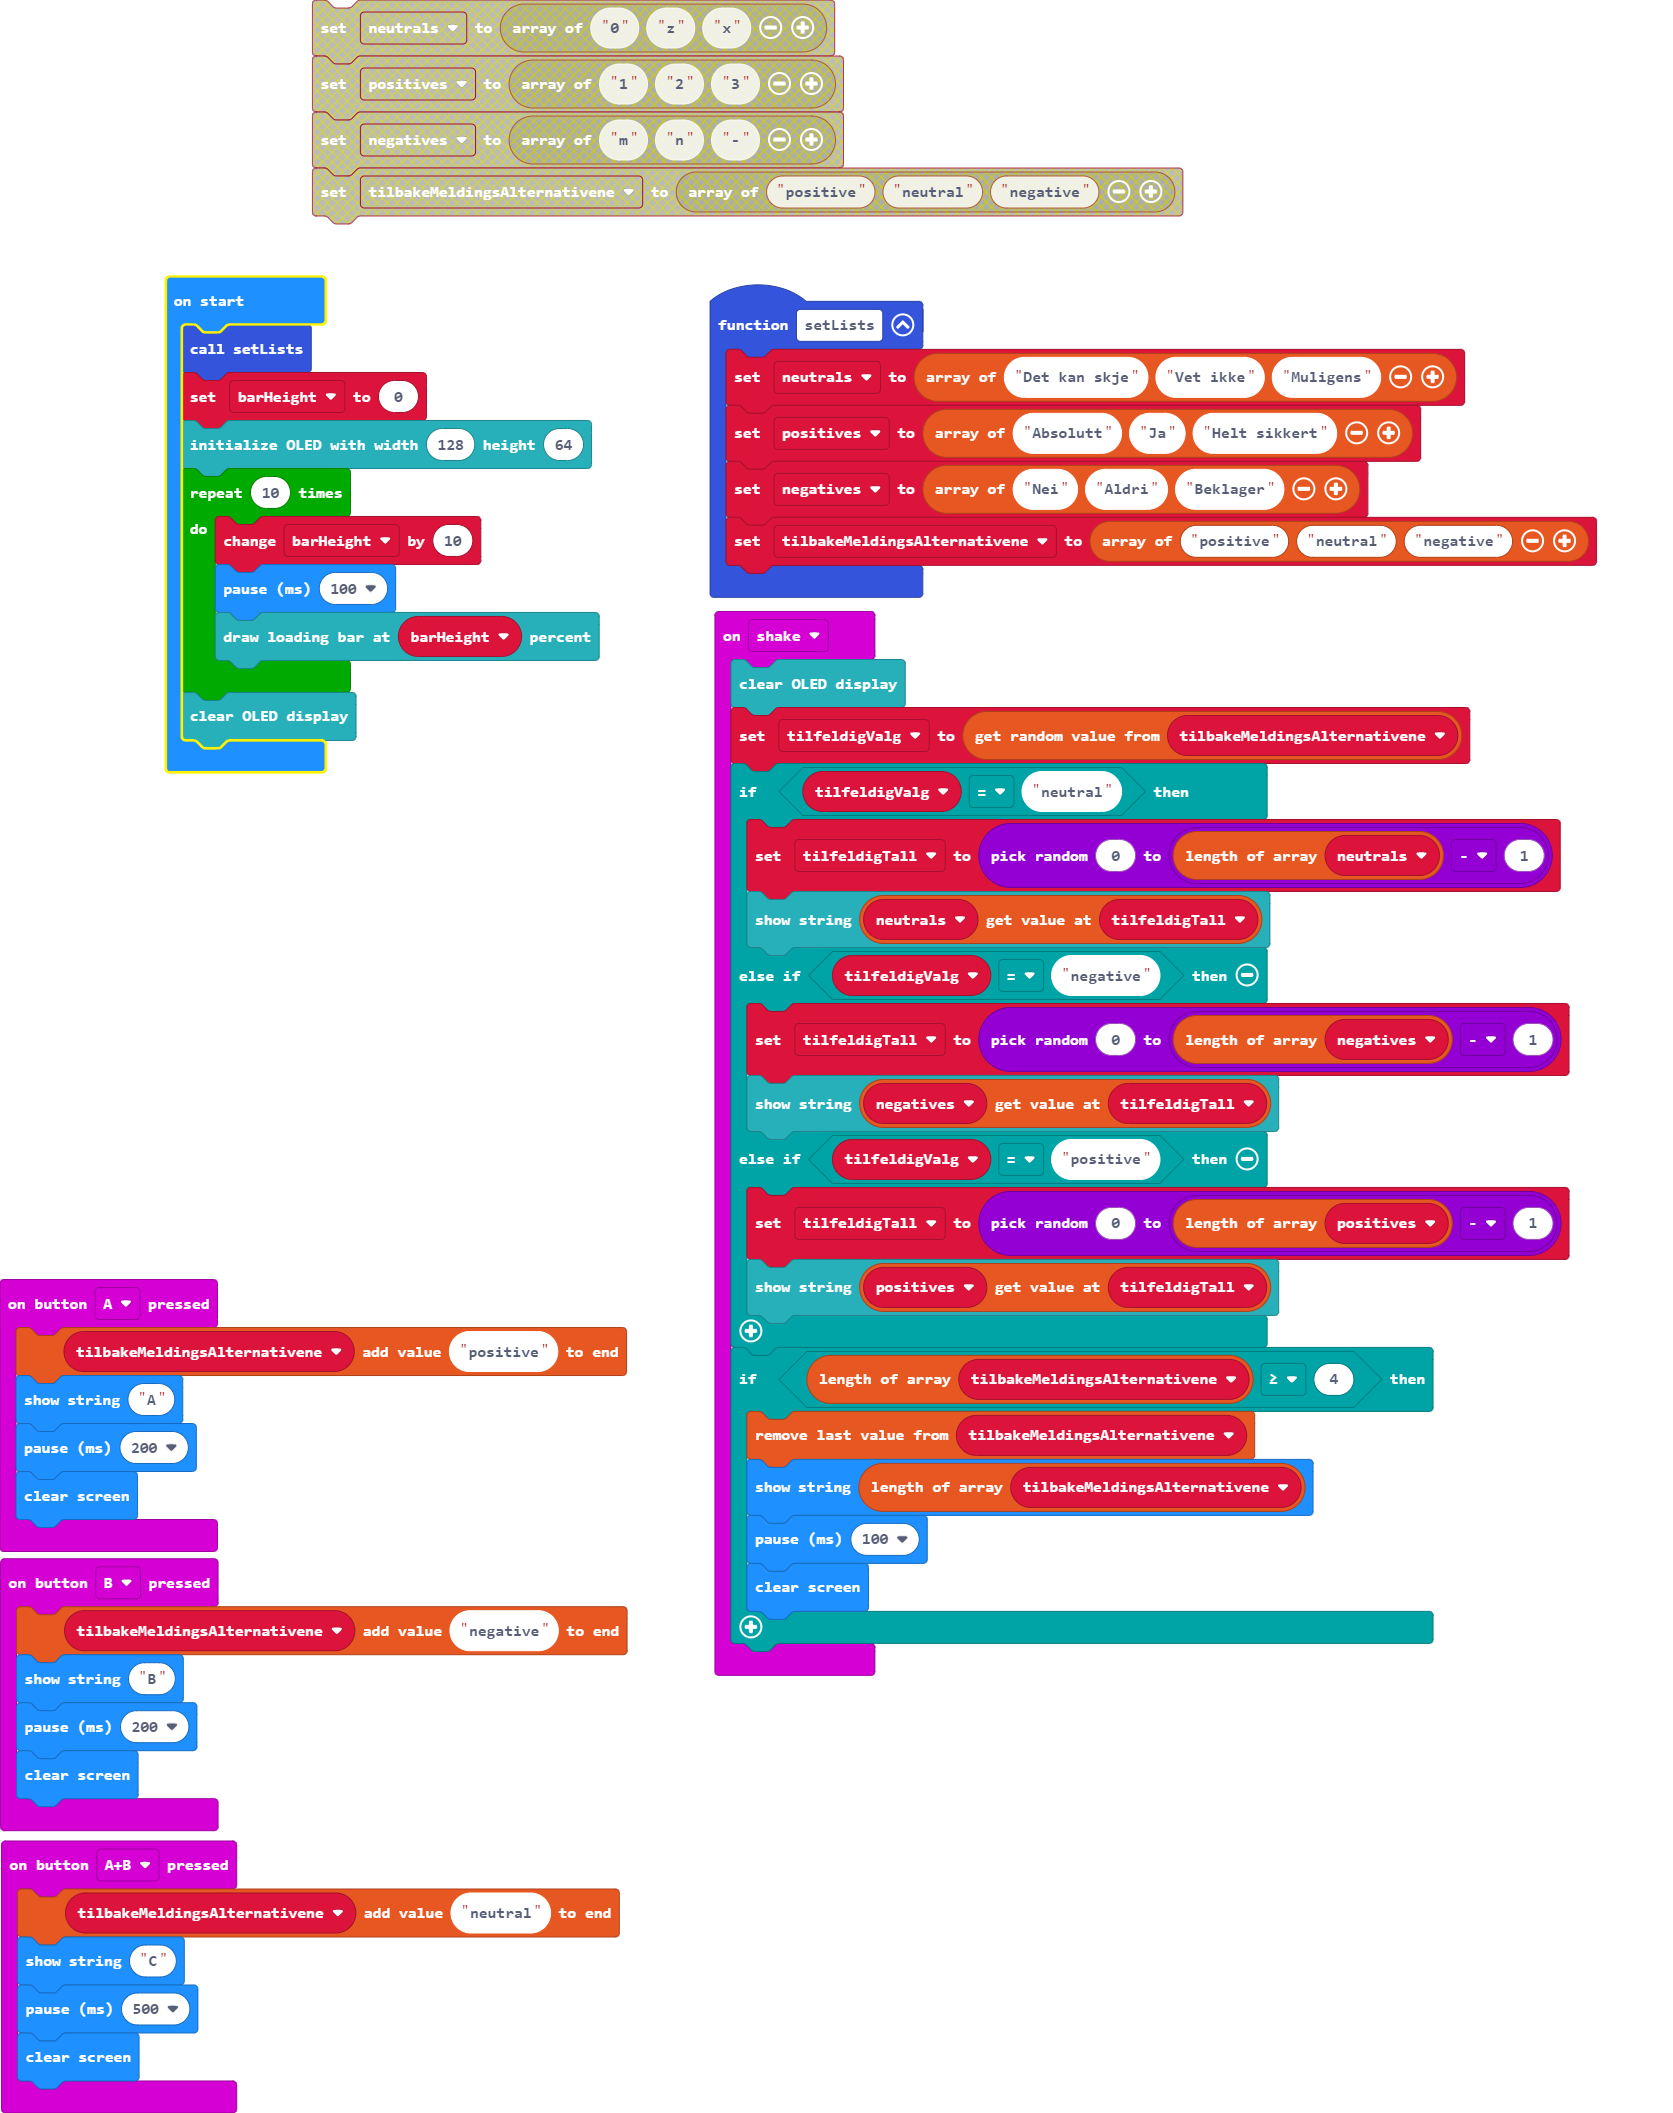
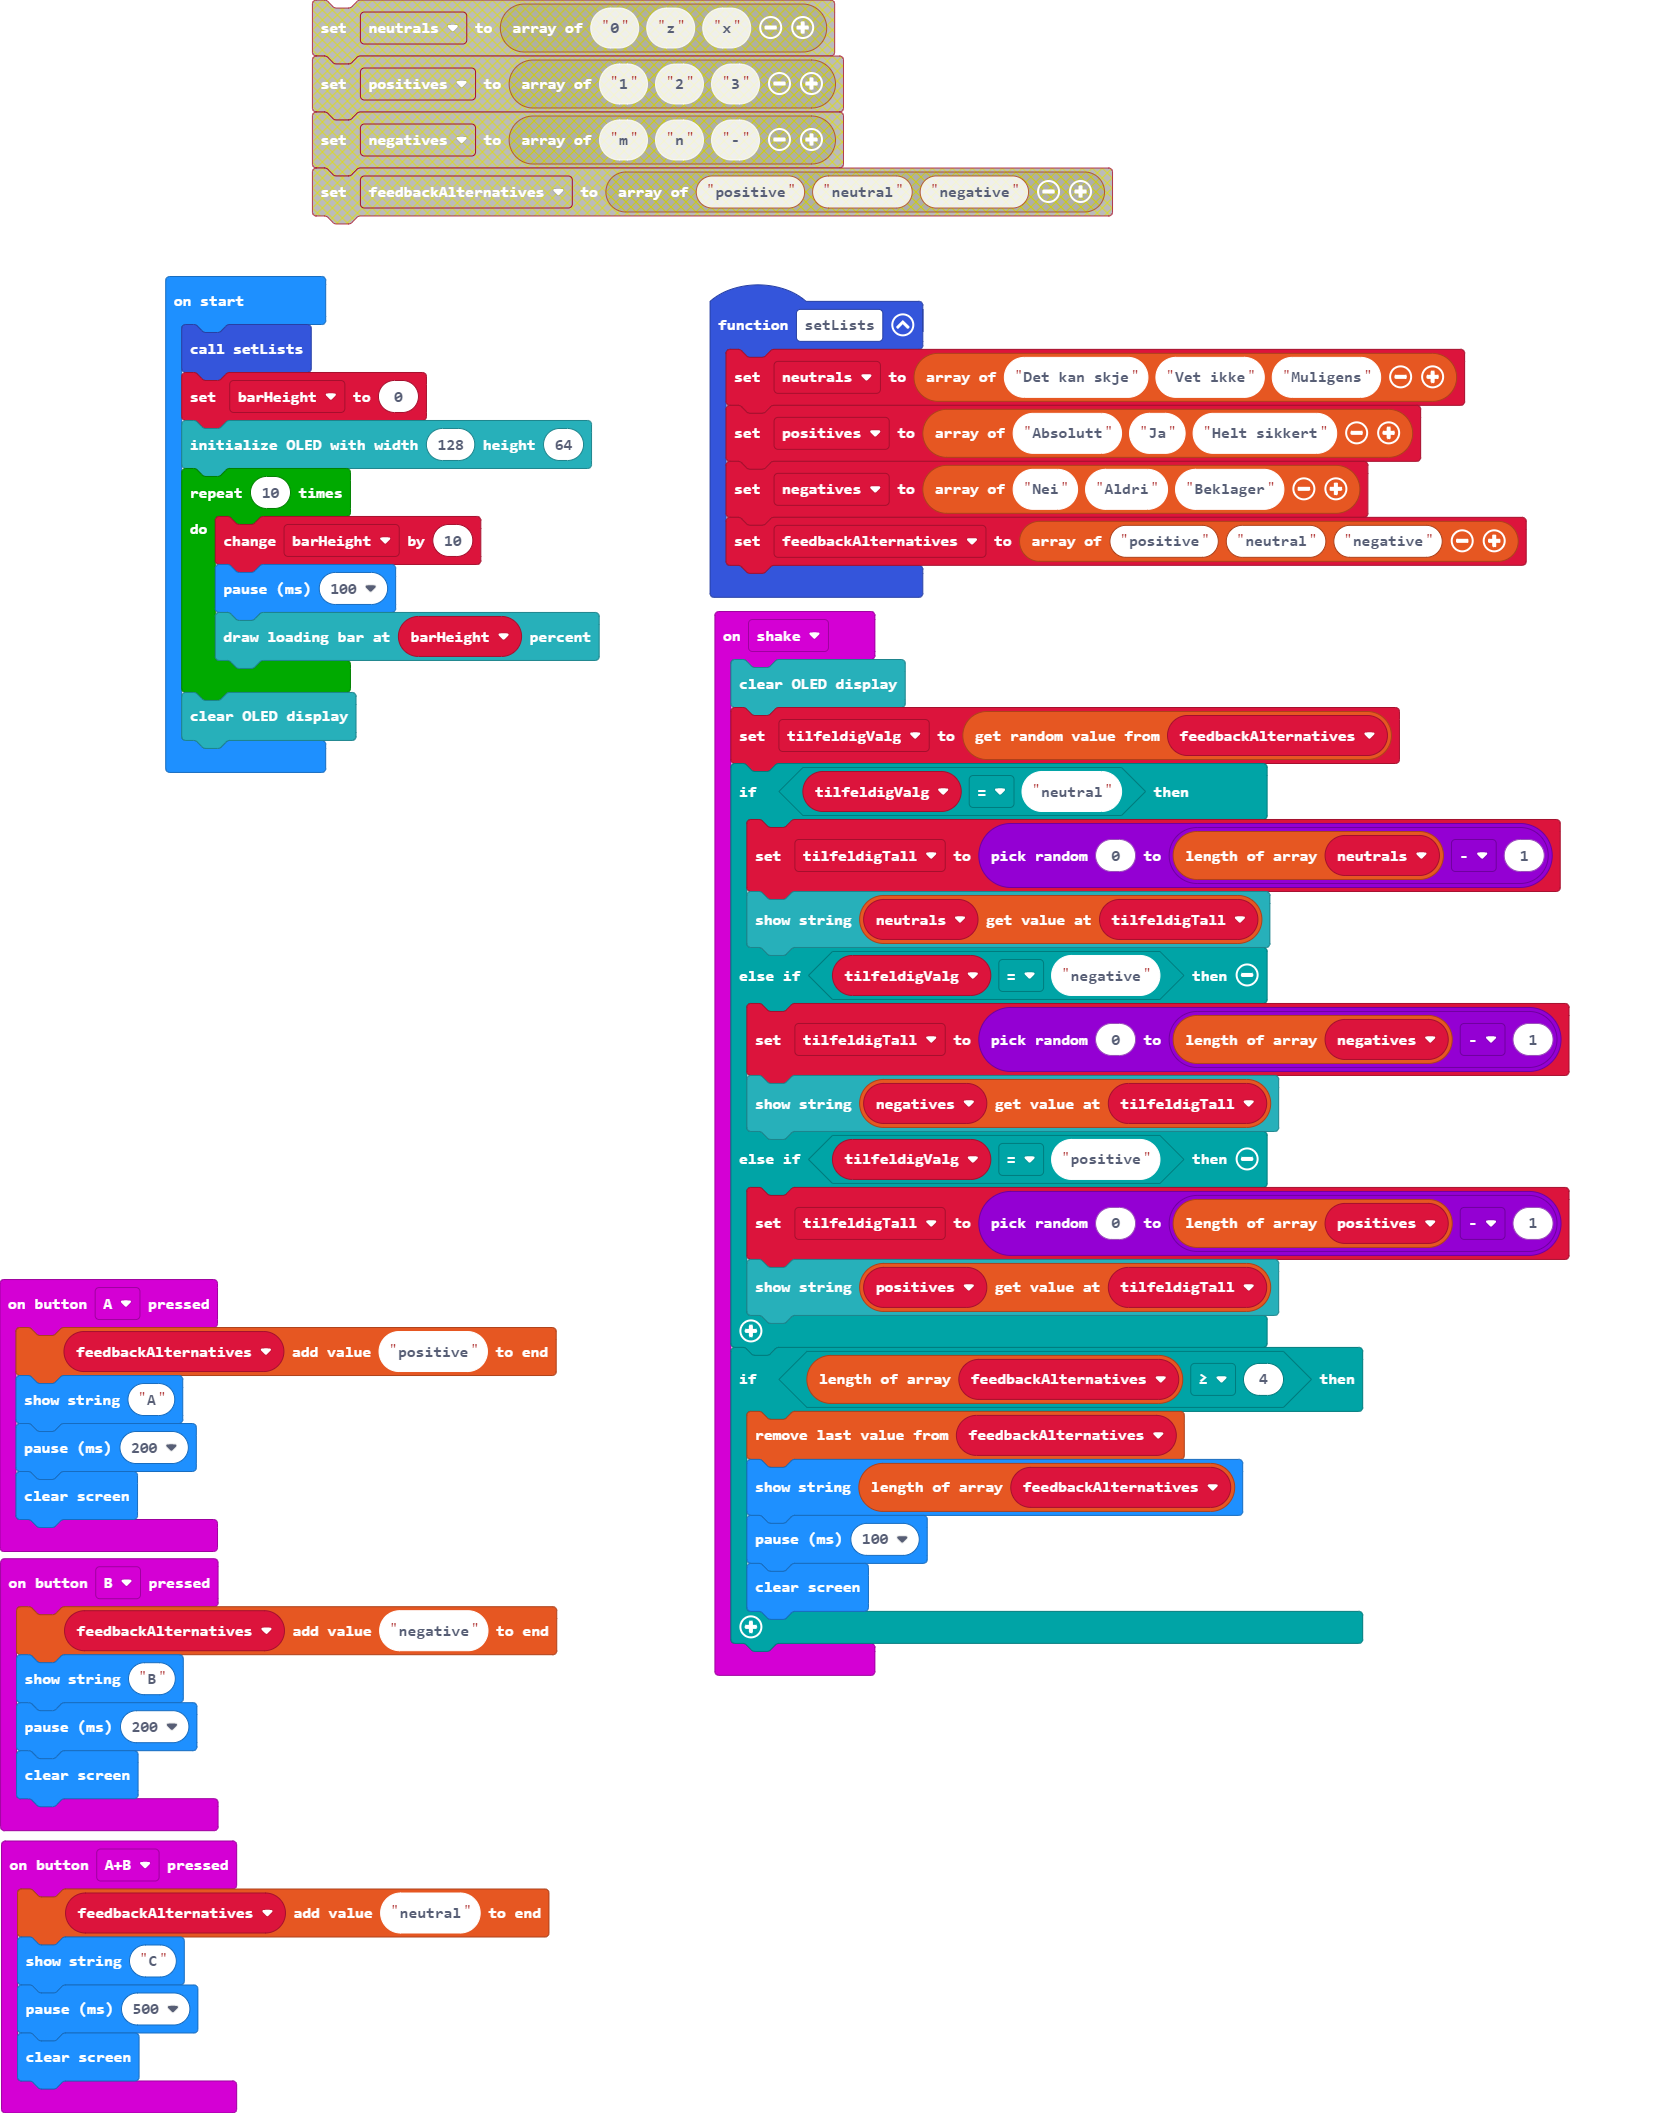
Update main.blocks, main.ts

diff --git a/main.ts b/main.ts
@@ -1,24 +1,24 @@
 input.onButtonPressed(Button.A, function () {
-    tilbakeMeldingsAlternativene.push("positive")
+    feedbackAlternatives.push("positive")
     basic.showString("A")
     basic.pause(200)
     basic.clearScreen()
 })
 input.onButtonPressed(Button.AB, function () {
-    tilbakeMeldingsAlternativene.push("neutral")
+    feedbackAlternatives.push("neutral")
     basic.showString("C")
     basic.pause(500)
     basic.clearScreen()
 })
 input.onButtonPressed(Button.B, function () {
-    tilbakeMeldingsAlternativene.push("negative")
+    feedbackAlternatives.push("negative")
     basic.showString("B")
     basic.pause(200)
     basic.clearScreen()
 })
 input.onGesture(Gesture.Shake, function () {
     OLED.clear()
-    tilfeldigValg = tilbakeMeldingsAlternativene._pickRandom()
+    tilfeldigValg = feedbackAlternatives._pickRandom()
     if (tilfeldigValg == "neutral") {
         tilfeldigTall = randint(0, neutrals.length - 1)
         OLED.writeStringNewLine(neutrals[tilfeldigTall])
@@ -29,9 +29,9 @@ input.onGesture(Gesture.Shake, function () {
         tilfeldigTall = randint(0, positives.length - 1)
         OLED.writeStringNewLine(positives[tilfeldigTall])
     }
-    if (tilbakeMeldingsAlternativene.length >= 4) {
-        tilbakeMeldingsAlternativene.pop()
-        basic.showString("" + (tilbakeMeldingsAlternativene.length))
+    if (feedbackAlternatives.length >= 4) {
+        feedbackAlternatives.pop()
+        basic.showString("" + (feedbackAlternatives.length))
         basic.pause(100)
         basic.clearScreen()
     }
@@ -40,14 +40,14 @@ function setLists () {
     neutrals = ["Det kan skje", "Vet ikke", "Muligens"]
     positives = ["Absolutt", "Ja", "Helt sikkert"]
     negatives = ["Nei", "Aldri", "Beklager"]
-    tilbakeMeldingsAlternativene = ["positive", "neutral", "negative"]
+    feedbackAlternatives = ["positive", "neutral", "negative"]
 }
 let positives: string[] = []
 let negatives: string[] = []
 let neutrals: string[] = []
 let tilfeldigTall = 0
 let tilfeldigValg = ""
-let tilbakeMeldingsAlternativene: string[] = []
+let feedbackAlternatives: string[] = []
 setLists()
 let barHeight = 0
 OLED.init(128, 64)
